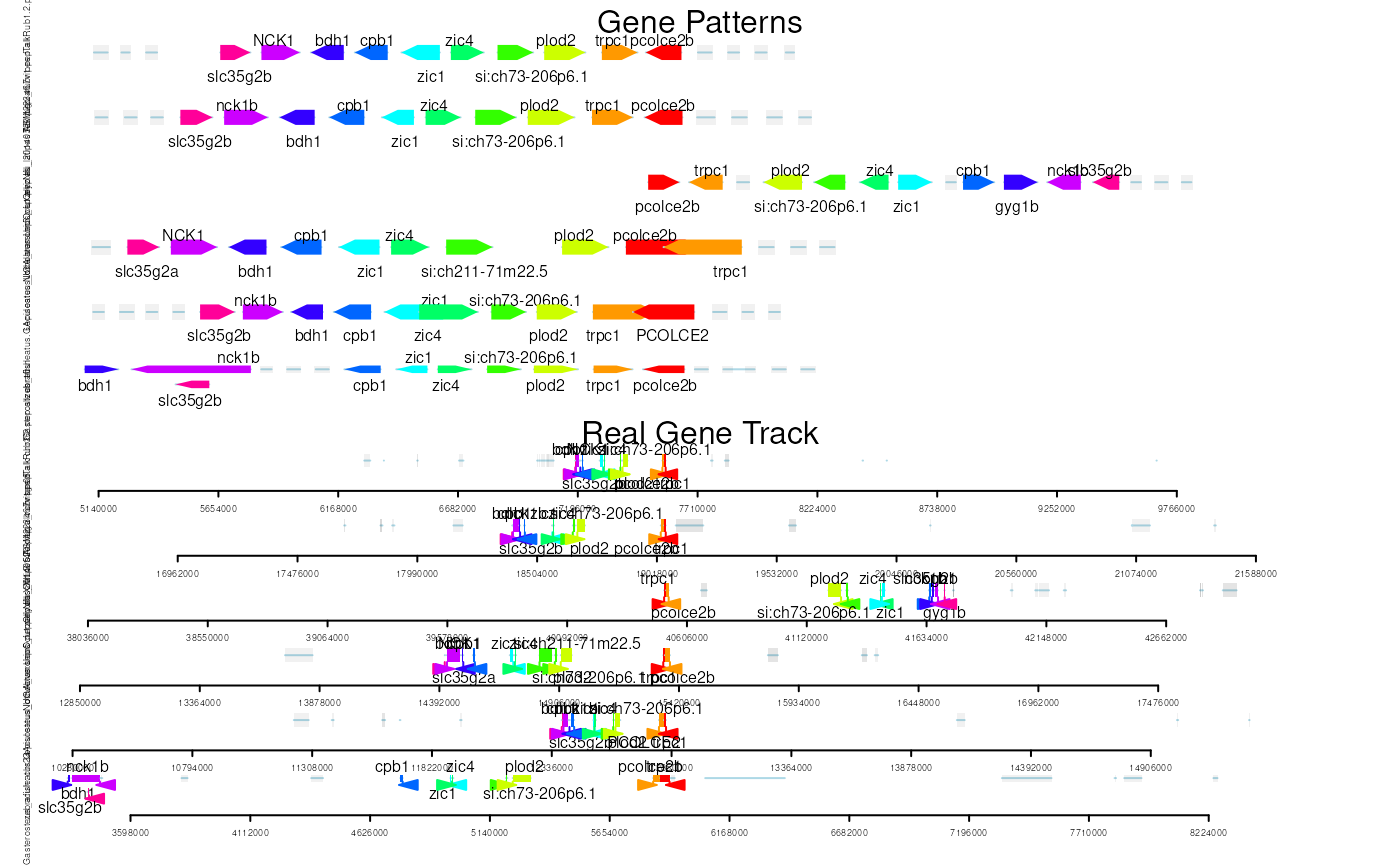
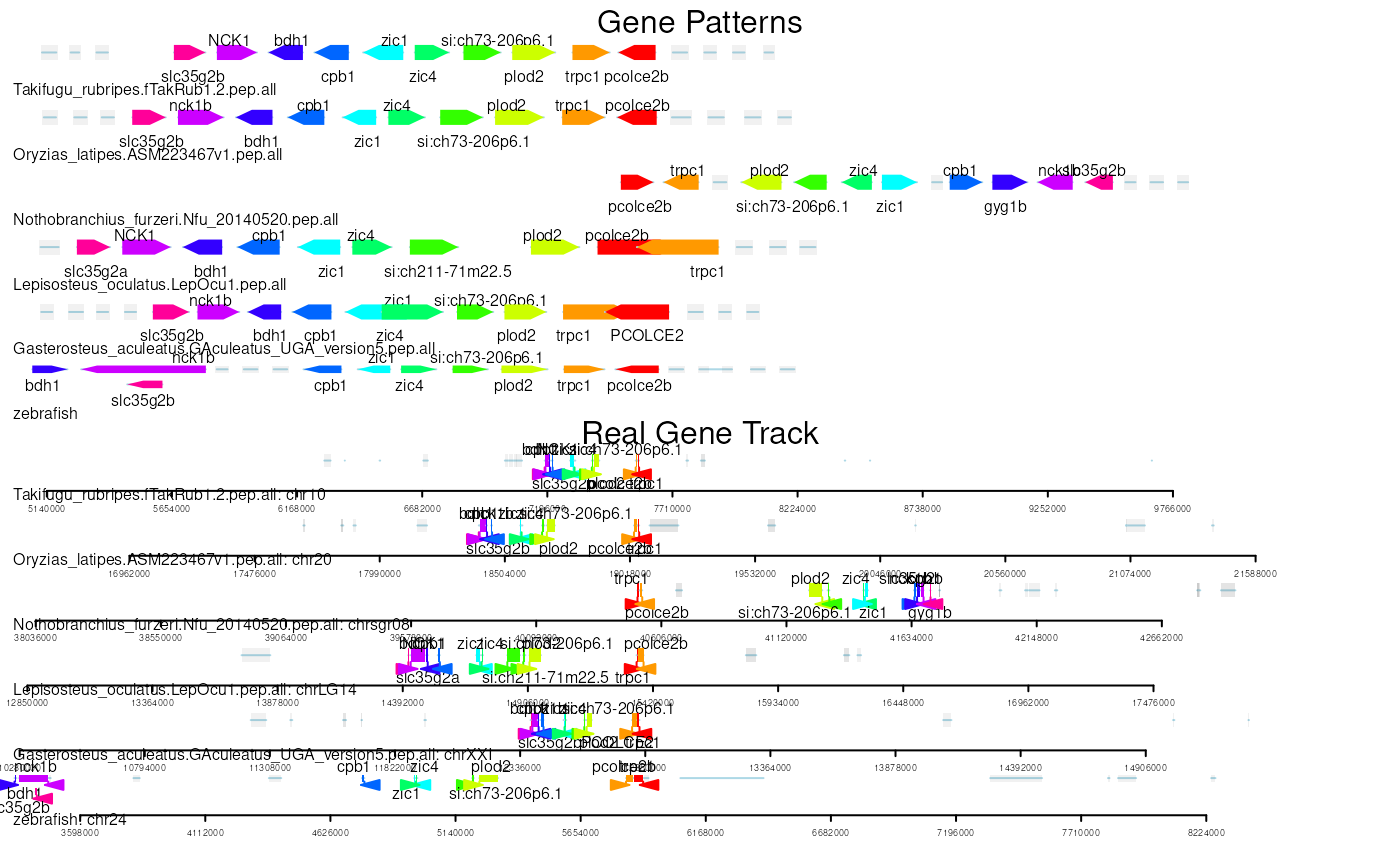
Deploying to gh-pages from @ jianhong/geneClusterPattern@2690d11a496edfc80ff8d7d9e6154d6ee72e1cb4 🚀

diff --git a/articles/vignette.html b/articles/vignette.html
@@ -32,7 +32,7 @@
       </button>
       <span class="navbar-brand">
         <a class="navbar-link" href="../index.html">geneClusterPattern</a>
-        <span class="version label label-default" data-toggle="tooltip" data-placement="bottom" title="">0.1.6</span>
+        <span class="version label label-default" data-toggle="tooltip" data-placement="bottom" title="">0.1.7</span>
       </span>
     </div>
 
@@ -81,7 +81,7 @@
                         <h4 data-toc-skip class="author">Jianhong
 Ou</h4>
             
-            <h4 data-toc-skip class="date">2 July 2026</h4>
+            <h4 data-toc-skip class="date">7 July 2026</h4>
       
       <small class="dont-index">Source: <a href="https://github.com/jianhong/geneClusterPattern/blob/main/vignettes/vignette.Rmd" class="external-link"><code>vignettes/vignette.Rmd</code></a></small>
       <div class="hidden name"><code>vignette.Rmd</code></div>
@@ -234,7 +234,7 @@ directly as input for downstream gene cluster analysis.</p>
 </h2>
 <div class="sourceCode" id="cb9"><pre class="downlit sourceCode r">
 <code class="sourceCode R"><span><span class="fu"><a href="https://rdrr.io/r/utils/sessionInfo.html" class="external-link">sessionInfo</a></span><span class="op">(</span><span class="op">)</span></span></code></pre></div>
-<p>R version 4.6.0 (2026-04-24) Platform: x86_64-pc-linux-gnu Running
+<p>R version 4.6.1 (2026-06-24) Platform: x86_64-pc-linux-gnu Running
 under: Ubuntu 24.04.4 LTS</p>
 <p>Matrix products: default BLAS:
 /usr/lib/x86_64-linux-gnu/openblas-pthread/libblas.so.3 LAPACK:
@@ -251,9 +251,9 @@ LAPACK version 3.12.0</p>
 datasets methods<br>
 [8] base</p>
 <p>other attached packages: [1] GenomeInfoDb_1.49.1 Seqinfo_1.3.0
-geneClusterPattern_0.1.6 [4] org.Dr.eg.db_3.22.0 AnnotationDbi_1.75.0
+geneClusterPattern_0.1.7 [4] org.Dr.eg.db_3.22.0 AnnotationDbi_1.75.0
 IRanges_2.47.2<br>
-[7] S4Vectors_0.51.5 Biobase_2.73.1 BiocGenerics_0.59.8<br>
+[7] S4Vectors_0.51.5 Biobase_2.73.1 BiocGenerics_0.59.9<br>
 [10] generics_0.1.4</p>
 <p>loaded via a namespace (and not attached): [1] strawr_0.0.92
 RColorBrewer_1.1-3<br>
@@ -271,25 +271,25 @@ RColorBrewer_1.1-3<br>
 [25] Formula_1.2-5 sass_0.4.10<br>
 [27] bslib_0.11.0 htmlwidgets_1.6.4<br>
 [29] desc_1.4.3 Gviz_1.57.0<br>
-[31] httr2_1.2.2 cachem_1.1.0<br>
+[31] httr2_1.2.3 cachem_1.1.0<br>
 [33] GenomicAlignments_1.49.0 lifecycle_1.0.5<br>
 [35] pkgconfig_2.0.3 Matrix_1.7-5<br>
 [37] R6_2.6.1 fastmap_1.2.0<br>
 [39] MatrixGenerics_1.25.0 digest_0.6.39<br>
 [41] colorspace_2.1-2 textshaping_1.0.5<br>
 [43] Hmisc_5.2-6 GenomicRanges_1.65.0<br>
-[45] RSQLite_3.53.2 filelock_1.0.3<br>
+[45] RSQLite_3.53.3 filelock_1.0.3<br>
 [47] httr_1.4.8 abind_1.4-8<br>
-[49] compiler_4.6.0 bit64_4.8.2<br>
+[49] compiler_4.6.1 bit64_4.8.2<br>
 [51] htmlTable_2.5.0 S7_0.2.2<br>
 [53] backports_1.5.1 BiocParallel_1.47.0<br>
 [55] DBI_1.3.0 biomaRt_2.69.0<br>
 [57] rappdirs_0.3.4 DelayedArray_0.39.3<br>
-[59] rjson_0.2.23 tools_4.6.0<br>
+[59] rjson_0.2.23 tools_4.6.1<br>
 [61] foreign_0.8-91 otel_0.2.0<br>
 [63] nnet_7.3-20 glue_1.8.1<br>
 [65] InteractionSet_1.41.0 restfulr_0.0.17<br>
-[67] rhdf5filters_1.25.0 grid_4.6.0<br>
+[67] rhdf5filters_1.25.0 grid_4.6.1<br>
 [69] checkmate_2.3.4 cluster_2.1.8.2<br>
 [71] gtable_0.3.6 BSgenome_1.81.0<br>
 [73] trackViewer_1.49.0 ensembldb_2.37.3<br>
@@ -300,8 +300,8 @@ RColorBrewer_1.1-3<br>
 [83] lattice_0.22-9 deldir_2.0-4<br>
 [85] rtracklayer_1.73.0 bit_4.6.0<br>
 [87] biovizBase_1.61.0 tidyselect_1.2.1<br>
-[89] Biostrings_2.81.3 knitr_1.51<br>
-[91] gridExtra_2.3 ProtGenerics_1.45.0<br>
+[89] Biostrings_2.81.5 knitr_1.51<br>
+[91] gridExtra_2.3.1 ProtGenerics_1.45.0<br>
 [93] SummarizedExperiment_1.43.0 xfun_0.59<br>
 [95] matrixStats_1.5.0 stringi_1.8.7<br>
 [97] UCSC.utils_1.9.0 lazyeval_0.2.3<br>
@@ -310,10 +310,10 @@ RColorBrewer_1.1-3<br>
 [103] interp_1.1-6 tibble_3.3.1<br>
 [105] BiocManager_1.30.27 cli_3.6.6<br>
 [107] rpart_4.1.27 systemfonts_1.3.2<br>
-[109] jquerylib_0.1.4 Rcpp_1.1.1-1.1<br>
+[109] jquerylib_0.1.4 Rcpp_1.1.2<br>
 [111] dichromat_2.0-0.1 grImport_0.9-7<br>
 [113] dbplyr_2.6.0 png_0.1-9<br>
-[115] XML_3.99-0.23 parallel_4.6.0<br>
+[115] XML_3.99-0.23 parallel_4.6.1<br>
 [117] pkgdown_2.2.0 ggplot2_4.0.3<br>
 [119] blob_1.3.0 prettyunits_1.2.0<br>
 [121] jpeg_0.1-11 latticeExtra_0.6-31<br>
@@ -321,7 +321,7 @@ RColorBrewer_1.1-3<br>
 [125] txdbmaker_1.9.0 pwalign_1.9.1<br>
 [127] VariantAnnotation_1.59.0 scales_1.4.0<br>
 [129] crayon_1.5.3 BiocStyle_2.41.0<br>
-[131] rlang_1.2.0 KEGGREST_1.53.1</p>
+[131] rlang_1.3.0 KEGGREST_1.53.1</p>
 </div>
   </div>
 

diff --git a/reference/plotGeneClusterPatterns.html b/reference/plotGeneClusterPatterns.html
@@ -17,7 +17,7 @@
       </button>
       <span class="navbar-brand">
         <a class="navbar-link" href="../index.html">geneClusterPattern</a>
-        <span class="version label label-default" data-toggle="tooltip" data-placement="bottom" title="">0.1.6</span>
+        <span class="version label label-default" data-toggle="tooltip" data-placement="bottom" title="">0.1.7</span>
       </span>
     </div>
 
@@ -70,7 +70,8 @@
 <span>  max_gap <span class="op">=</span> <span class="fl">1e+07</span>,</span>
 <span>  <span class="va">colors</span>,</span>
 <span>  maxNonEssential <span class="op">=</span> <span class="fl">5</span>,</span>
-<span>  alignType <span class="op">=</span> <span class="fu"><a href="https://rdrr.io/r/base/c.html" class="external-link">c</a></span><span class="op">(</span><span class="st">"local"</span>, <span class="st">"global"</span><span class="op">)</span></span>
+<span>  alignType <span class="op">=</span> <span class="fu"><a href="https://rdrr.io/r/base/c.html" class="external-link">c</a></span><span class="op">(</span><span class="st">"local"</span>, <span class="st">"global"</span><span class="op">)</span>,</span>
+<span>  label_size <span class="op">=</span> <span class="fl">0.5</span></span>
 <span><span class="op">)</span></span></code></pre></div>
     </div>
 
@@ -106,6 +107,10 @@ two essential genes.</p></dd>
 <dt id="arg-aligntype">alignType<a class="anchor" aria-label="anchor" href="#arg-aligntype"></a></dt>
 <dd><p>Align the gene pattern by query gene ('local') or by the
 clusters ('global').</p></dd>
+
+
+<dt id="arg-label-size">label_size<a class="anchor" aria-label="anchor" href="#arg-label-size"></a></dt>
+<dd><p>The label cex value. default is 0.5.</p></dd>
 
 </dl></div>
     <div id="value">

diff --git a/reference/geneOrderScore.html b/reference/geneOrderScore.html
@@ -17,7 +17,7 @@
       </button>
       <span class="navbar-brand">
         <a class="navbar-link" href="../index.html">geneClusterPattern</a>
-        <span class="version label label-default" data-toggle="tooltip" data-placement="bottom" title="">0.1.6</span>
+        <span class="version label label-default" data-toggle="tooltip" data-placement="bottom" title="">0.1.7</span>
       </span>
     </div>
 
@@ -104,8 +104,10 @@
 'edit distance', the gene order score is the mean of
 edit (Levenshtein) distance of given ids from different species.
 Gene order score = k/length(ids)/(mean(adist)+1).
-'global alignment score', the gene order score is the mean of global
-alignment score. see <a href="https://rdrr.io/pkg/pwalign/man/pairwiseAlignment.html" class="external-link">pairwiseAlignment</a>.
+'global alignment score', the gene order score is the mean of normalized
+global alignment score.
+For global alignment score please refer <a href="https://rdrr.io/pkg/pwalign/man/pairwiseAlignment.html" class="external-link">pairwiseAlignment</a>.
+The alignment score will be normalized by the reference self alignment score.
 'spearman correlation', the score is the mean of absolute value of
 Spearman correlation of the genes appearance order.
 'non-random score', the score is the mean of Jaccard index of 2-order and

diff --git a/authors.html b/authors.html
@@ -17,7 +17,7 @@
       </button>
       <span class="navbar-brand">
         <a class="navbar-link" href="index.html">geneClusterPattern</a>
-        <span class="version label label-default" data-toggle="tooltip" data-placement="bottom" title="">0.1.6</span>
+        <span class="version label label-default" data-toggle="tooltip" data-placement="bottom" title="">0.1.7</span>
       </span>
     </div>
 
@@ -77,13 +77,13 @@
 
     <p>Ou J, Poss K (2026).
 <em>geneClusterPattern: Plot conserved gene pattern cross multiple species</em>.
-R package version 0.1.6, <a href="https://github.com/jianhong/geneClusterPattern" class="external-link">https://github.com/jianhong/geneClusterPattern</a>.
+R package version 0.1.7, <a href="https://github.com/jianhong/geneClusterPattern" class="external-link">https://github.com/jianhong/geneClusterPattern</a>.
 </p>
     <pre>@Manual{,
   title = {geneClusterPattern: Plot conserved gene pattern cross multiple species},
   author = {Jianhong Ou and Kenneth Poss},
   year = {2026},
-  note = {R package version 0.1.6},
+  note = {R package version 0.1.7},
   url = {https://github.com/jianhong/geneClusterPattern},
 }</pre>
 

diff --git a/news/index.html b/news/index.html
@@ -17,7 +17,7 @@
       </button>
       <span class="navbar-brand">
         <a class="navbar-link" href="../index.html">geneClusterPattern</a>
-        <span class="version label label-default" data-toggle="tooltip" data-placement="bottom" title="">0.1.6</span>
+        <span class="version label label-default" data-toggle="tooltip" data-placement="bottom" title="">0.1.7</span>
       </span>
     </div>
 
@@ -57,6 +57,10 @@
       <small>Source: <a href="https://github.com/jianhong/geneClusterPattern/blob/main/NEWS.md" class="external-link"><code>NEWS.md</code></a></small>
     </div>
 
+    <div class="section level2">
+<h2 class="page-header" data-toc-text="0.1.7" id="changes-in-version-017">Changes in version 0.1.7<a class="anchor" aria-label="anchor" href="#changes-in-version-017"></a></h2>
+<p>o add label_size for plotGenePatterns function.</p>
+</div>
     <div class="section level2">
 <h2 class="page-header" data-toc-text="0.1.6" id="changes-in-version-016">Changes in version 0.1.6<a class="anchor" aria-label="anchor" href="#changes-in-version-016"></a></h2>
 <p>o Update the geneOrderScore function.</p>

diff --git a/reference/fromOrthogroups.html b/reference/fromOrthogroups.html
@@ -18,7 +18,7 @@ This function is under-development."><meta property="og:image" content="https://
       </button>
       <span class="navbar-brand">
         <a class="navbar-link" href="../index.html">geneClusterPattern</a>
-        <span class="version label label-default" data-toggle="tooltip" data-placement="bottom" title="">0.1.6</span>
+        <span class="version label label-default" data-toggle="tooltip" data-placement="bottom" title="">0.1.7</span>
       </span>
     </div>
 

diff --git a/reference/geneClusterPattern-package.html b/reference/geneClusterPattern-package.html
@@ -18,7 +18,7 @@ Based on the orthology information, geneClusterPattern constructs an ordered rep
       </button>
       <span class="navbar-brand">
         <a class="navbar-link" href="../index.html">geneClusterPattern</a>
-        <span class="version label label-default" data-toggle="tooltip" data-placement="bottom" title="">0.1.6</span>
+        <span class="version label label-default" data-toggle="tooltip" data-placement="bottom" title="">0.1.7</span>
       </span>
     </div>
 

diff --git a/reference/getGeneCluster.html b/reference/getGeneCluster.html
@@ -19,7 +19,7 @@ where each column contains the genomic ranks of genes for a given species."><met
       </button>
       <span class="navbar-brand">
         <a class="navbar-link" href="../index.html">geneClusterPattern</a>
-        <span class="version label label-default" data-toggle="tooltip" data-placement="bottom" title="">0.1.6</span>
+        <span class="version label label-default" data-toggle="tooltip" data-placement="bottom" title="">0.1.7</span>
       </span>
     </div>
 

diff --git a/reference/homologsFromEnsemblIDs.html b/reference/homologsFromEnsemblIDs.html
@@ -18,7 +18,7 @@ ids."><meta property="og:image" content="https://jianhong.github.io/geneClusterP
       </button>
       <span class="navbar-brand">
         <a class="navbar-link" href="../index.html">geneClusterPattern</a>
-        <span class="version label label-default" data-toggle="tooltip" data-placement="bottom" title="">0.1.6</span>
+        <span class="version label label-default" data-toggle="tooltip" data-placement="bottom" title="">0.1.7</span>
       </span>
     </div>
 

diff --git a/reference/orthologPairsFromOrthoFinder.html b/reference/orthologPairsFromOrthoFinder.html
@@ -18,7 +18,7 @@ Read orthoFinder Orthologues results as a list for each pair of orthologs."><met
       </button>
       <span class="navbar-brand">
         <a class="navbar-link" href="../index.html">geneClusterPattern</a>
-        <span class="version label label-default" data-toggle="tooltip" data-placement="bottom" title="">0.1.6</span>
+        <span class="version label label-default" data-toggle="tooltip" data-placement="bottom" title="">0.1.7</span>
       </span>
     </div>
 

diff --git a/reference/pruningSequences.html b/reference/pruningSequences.html
@@ -18,7 +18,7 @@ Remove the unwanted chromosomes from a list of GRanges object."><meta property="
       </button>
       <span class="navbar-brand">
         <a class="navbar-link" href="../index.html">geneClusterPattern</a>
-        <span class="version label label-default" data-toggle="tooltip" data-placement="bottom" title="">0.1.6</span>
+        <span class="version label label-default" data-toggle="tooltip" data-placement="bottom" title="">0.1.7</span>
       </span>
     </div>
 

diff --git a/404.html b/404.html
@@ -33,7 +33,7 @@
       </button>
       <span class="navbar-brand">
         <a class="navbar-link" href="https://jianhong.github.io/geneClusterPattern/index.html">geneClusterPattern</a>
-        <span class="version label label-default" data-toggle="tooltip" data-placement="bottom" title="">0.1.6</span>
+        <span class="version label label-default" data-toggle="tooltip" data-placement="bottom" title="">0.1.7</span>
       </span>
     </div>
 
